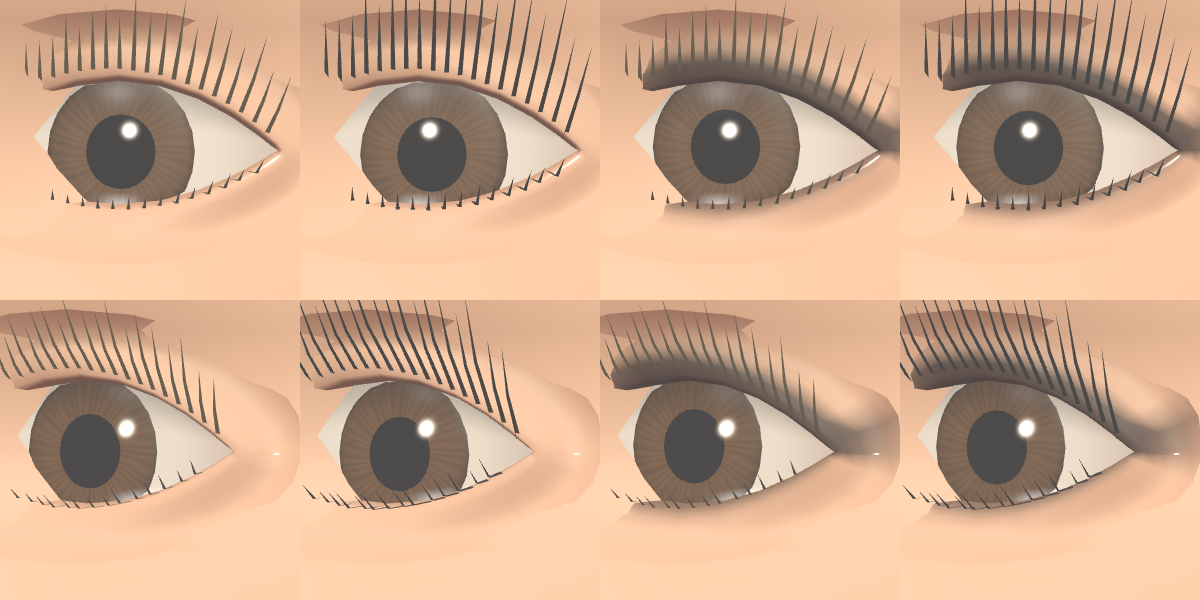
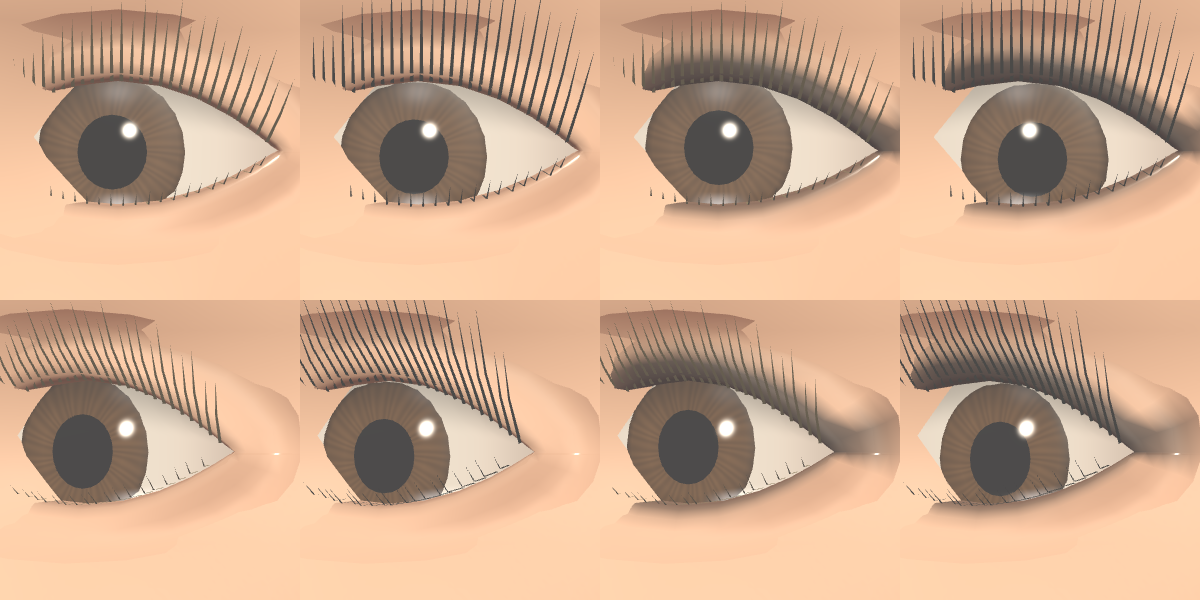
Lashes rooted on the lid line (denser, finer, 30 upper + 18 lower per eye, darker lash line, no skin shelf) and blush as two cheek apples instead of a band; tests for root distance, blush place and the packed-tag round trip. Refs #2170

diff --git a/src/config.js b/src/config.js
@@ -7622,15 +7622,15 @@ export const AVATAR_LIDS = {
   lid: { cols: 24, outer: [0.0175, 0.0105, 0.0085], rows: [0, 0.07, 0.25, 0.45, 0.6, 0.78, 1], inset: 0.0003, tuck: 0.0004,
     thick: [0.0011, 0.0008], corner: 0.35, round: 0.0004, fall: [2, 2], normal: [0, 0, 0, 0.1, 0.25, 0.4, 0.7, 1] },
   crease: { at: 0.6, width: 0.13, depth: 0.0007, shade: 0.84 },
-  shade: { upper: [0.74, 0.5], lower: [0.8, 0.8] },
+  shade: { upper: [0.74, 0.38], lower: [0.8, 0.62], line: 0.45 }, // (#2170: a darker lash line under the lashes' roots)
   blink: { close: 0.35, fold: 0.0032, foldLower: 0.0025, push: 0.002 },
-  // #2170: the lashes are separate curved hairs now (src/avatarlids.js `lashes`): `count` along the span (inner, outer: fractions of the opening's half
+  // #2170: the lashes are separate curved hairs now (src/avatarlids.js `lashes`): `root` m the roots sit inside the margin's edge (on the lid line, no skin between them), `count` along the span (inner, outer: fractions of the opening's half
   // width, x towards the temple), `length` m at the middle of the opening (x 0.4 ... 1 with its height, x `outer` [inner end, temple end]), `jitter` the
   // hairs' length variation, `angle` [root, curl] degrees from straight forward towards up (lower lashes: down), `width` m at the root (the
   // mid keeps `mid` x of it, the tip a point), `splay` m sideways per m of length at the temple end, `flip` how far a shut lid turns them over,
   // `down` how much a shut lid folds the lower ones up, `px` when they are drawn (old / new lash line). All *guess* by eye on the mirror preview.
-  lash: { count: 22, length: 0.0075, outer: [0.7, 1.3], jitter: 0.16, angle: [28, 52], width: 0.0004, mid: 0.7, splay: 0.35, span: [0.85, 0.95], shade: 0.3, flip: 1.7, down: 0.9, px: [[0.35, 0.7], [0.8, 1.6]],
-    lower: { count: 14, length: 0.0045, outer: [0.6, 1.2], angle: [-38, 30], span: [0.45, 0.85], shade: 0.4 } },
+  lash: { count: 30, length: 0.0075, outer: [0.7, 1.3], jitter: 0.16, angle: [28, 52], width: 0.0003, root: 0.0002, mid: 0.7, splay: 0.35, span: [0.85, 0.95], shade: 0.3, flip: 1.7, down: 0.9, px: [[0.35, 0.7], [0.8, 1.6]],
+    lower: { count: 18, length: 0.0042, outer: [0.6, 1.2], angle: [-38, 30], width: 0.0002, span: [0.45, 0.88], shade: 0.4 } },
 };
 // #2170 makeup: lip colour, eye makeup and blush as customizer choices (the look's `lipstick`, `eyeMakeup`, `blush`, each 0 = none = today's look). The three
 // are one code (lip + lips x (eye + eyes x blush), 0 ... 59) in the legs tag `p`'s tens (the legs in the units, 0 ... 4): a missing tag = no makeup; an older client
@@ -7639,12 +7639,12 @@ export const AVATAR_LIDS = {
 //  - `eyes`: 1 mascara (the lashes `lash` x longer and `dark` of the way to black, shader only), 2 eyeliner (the lid margin's vertex colours to `colour` x
 //    skin: full inside `upper` [full, none] m above the upper opening edge, `lowerK` x of it under the lower, a wing past the outer corner of `wing` m rising
 //    `rise` per m, fading in from `inner` of the opening's half width), 3 both.
-//  - `blush`: the cheeks' soft area (the skinArea format, head bone's frame) x `strength` (shader only: the skin's colour x `mul` plus `colour` x `tint`).
+//  - `blush`: the cheeks' two oval apples (head bone's frame: centre `at` x, y under the outer eyes, Gaussian radii `r`, in front of `z`; nothing across the nose or at the mouth corners) x `strength` (shader only: the skin's colour x `mul` plus `colour` x `tint`).
 export const AVATAR_MAKEUP = { tag: 'p', pack: 10,
   lips: { names: ['Ingen', 'Rosa', 'Röd', 'Vinröd', 'Nude'], colours: [0, 0xc4506c, 0xa3152a, 0x62183a, 0xb07a6c], mix: 0.85 },
   eyes: { names: ['Inget', 'Mascara', 'Eyeliner', 'Mascara & eyeliner'], lash: 1.4, dark: 0.92,
     liner: { colour: 0.08, upper: [0.0014, 0.0034], lowerK: 0.65, lower: [0.0004, 0.0016], wing: 0.0075, rise: 0.35, inner: 0.35 } },
-  blush: { names: ['Inget', 'Lätt', 'Tydlig'], strength: [0, 0.4, 0.8], area: [0.05, 0.068, 0.055, 0.034, 1, 1.2], colour: 0xd0506c, mul: [1.2, 0.68, 0.76], tint: 0.16 } };
+  blush: { names: ['Inget', 'Lätt', 'Tydlig'], strength: [0, 0.6, 1], area: { at: [0.052, 0.07], r: [0.021, 0.017], z: 0.05 }, colour: 0xd0506c, mul: [1.2, 0.68, 0.76], tint: 0.16 } };
 const mkPick = (v, n) => (Number.isInteger(v) && v > 0 && v < n ? v : 0);
 /** The look's makeup choices, each an integer in range (0 = none, also for any missing or unknown value). */
 export function makeupOf(look) {

diff --git a/src/avatarlids.js b/src/avatarlids.js
@@ -84,7 +84,7 @@ export function lidSurface(skin) {
       const crease = fold * Math.exp(-(((s - C.at) / C.width) ** 2));
       if (j > 0) z = Math.max(z - C.depth * crease, skin(x, y) + lift * 0.5);
       position.push(x, y, z);
-      shade.push(j === 0 ? sh[1] : 1 - (1 - C.shade) * crease);
+      shade.push(j === 0 ? sh[1] : j === 1 && L.shade.line ? sh[1] + (1 - sh[1]) * L.shade.line : 1 - (1 - C.shade) * crease); // (#2170: the lash line's dark reaches the second row)
     });
   }
   for (let i = 0; i < n; i++) for (let j = 0; j < rows.length; j++) {
@@ -106,8 +106,8 @@ export function lidSurface(skin) {
 
 /** A lash root's [y, z] at x on the upper or lower margin (the shader collapses a lash onto it). */
 export const lashBase = (x, upper = true) => (upper
-  ? [edgeY(x, true) + 0.00005, scleraZ(x) + lidThick(x, true) - 0.00008]
-  : [edgeY(x, false) - 0.00005, scleraZ(x) + lidThick(x, false) - 0.00008]);
+  ? [edgeY(x, true) - L.lash.root, scleraZ(x) + lidThick(x, true) - 0.00008]
+  : [edgeY(x, false) + L.lash.root, scleraZ(x) + lidThick(x, false) - 0.00008]);
 
 /** The hairs of one lash row (#2170): `count` hairs along the span, each a flat blade (its width along x) in the plane of its curved
  * path: the root's two points in the margin's edge, a mid ring, a pointed tip. Returns [{x, len, p: [root, mid, tip] as [x, y, z]}].
@@ -135,7 +135,7 @@ export const upperLashes = (side) => lashes(side, true);
 /** One lash row of one eye as a mesh (region `brow`, the brows' colour darkened by the part's shade): per hair a double-sided blade
  * (two roots, two mid points, a tip; 6 triangles), vertices not shared between its sides so each takes its own normal. */
 export function lashes(side, upper = true) {
-  const A = L.lash, w = A.width / 2, position = [], index = [];
+  const A = L.lash, w = (upper ? A.width : A.lower.width) / 2, position = [], index = [];
   for (const h of lashHairs(side, upper)) {
     const k = position.length / 3, wm = w * A.mid;
     for (let copy = 0; copy < 2; copy++) { // front side, then back side (opposite winding)
@@ -159,7 +159,7 @@ export function lidBlink(warp) {
             float yU = ${f(K.upper)} * le, yL = -${f(K.lower)} * le, yC = -${f(B.close * K.lower)} * le, lb = uBlink;
             if (abs(region - 9.0) < 0.5) { // the lashes: drawn only while long enough on screen; they fold down as the lid shuts
               bool lw = lq.y < 0.0; // (the lower row's hairs lie under the opening's middle line, the upper row's over it)
-              float yB = (lw ? -${f(K.lower)} * le - 0.00005 : yU + 0.00005), zB = ${f(zs)} * (${f(K.scleraBase)} + ${f(K.scleraRound)} * le) + (lw ? ${f(D.thick[1])} : ${f(D.thick[0])}) * (${f(D.corner)} + ${f(1 - D.corner)} * sqrt(le)) - 0.00008;
+              float yB = (lw ? -${f(K.lower)} * le + ${f(A.root)} : yU - ${f(A.root)}), zB = ${f(zs)} * (${f(K.scleraBase)} + ${f(K.scleraRound)} * le) + (lw ? ${f(D.thick[1])} : ${f(D.thick[0])}) * (${f(D.corner)} + ${f(1 - D.corner)} * sqrt(le)) - 0.00008;
               float lDep = max(-(modelViewMatrix * vec4(faceAnchor, 1.0)).z, 0.01);
               float lPx = ${f(A.length)} * uEye.x * abs(projectionMatrix[1][1]) * max(uFly.x, 1.0) / (2.0 * lDep);
               float lKeep = uFly.y > 0.5 ? smoothstep(${f(aa[0])}, ${f(aa[1])}, lPx) : smoothstep(${f(na[0])}, ${f(na[1])}, lPx);

diff --git a/src/avatarmakeup.js b/src/avatarmakeup.js
@@ -52,10 +52,19 @@ export function applyMakeupLook(u, look) {
 }
 /** Declarations for both stages. */
 export const makeupDecl = () => 'uniform vec2 uMake; uniform vec4 uBlush; // #2170 (src/avatarmakeup.js)';
-/** Fragment: blush on the face's skin (inside skinShading's face branch, `q` the head-frame position and `skinArea` already made `blushA`) */
+/** The blush's weight (0 … 1) at head-frame point (x, y, z): two Gaussian apples under the outer eyes, mirrored in x, in front of the face plane `z`.
+ * The shader's `blushA` is this same formula. */
+export function blushWeight(x, y, z) {
+  const A = M.blush.area;
+  if (z < A.z) return 0;
+  return Math.exp(-(((Math.abs(x) - A.at[0]) / A.r[0]) ** 2) - ((y - A.at[1]) / A.r[1]) ** 2);
+}
+/** Fragment: blush on the face's skin (inside skinShading's face branch, `q` the head-frame position; defines `blushA`) */
 export const blushGLSL = () => {
   const [a, b, c] = M.blush.mul;
-  return `if (uBlush.a > 0.0) { vec3 bl = diffuseColor.rgb * vec3(${a.toFixed(3)}, ${b.toFixed(3)}, ${c.toFixed(3)}) + uBlush.rgb * ${M.blush.tint.toFixed(3)}; diffuseColor.rgb = mix(diffuseColor.rgb, bl, clamp(blushA * uBlush.a, 0.0, 1.0)); }`;
+  const A = M.blush.area, f = (v) => v.toFixed(5);
+  return `float blushA = exp(-pow((abs(q.x) - ${f(A.at[0])}) / ${f(A.r[0])}, 2.0) - pow((q.y - ${f(A.at[1])}) / ${f(A.r[1])}, 2.0)) * step(${f(A.z)}, q.z);
+    if (uBlush.a > 0.0) { vec3 bl = diffuseColor.rgb * vec3(${a.toFixed(3)}, ${b.toFixed(3)}, ${c.toFixed(3)}) + uBlush.rgb * ${M.blush.tint.toFixed(3)}; diffuseColor.rgb = mix(diffuseColor.rgb, bl, clamp(blushA * uBlush.a, 0.0, 1.0)); }`;
 };
 /** Fragment: mascara darkens the lashes (region 9 of the eye part). */
 export const mascaraGLSL = (eyePart) => `if (uMake.y > 0.0 && floor(vSurface.x + 0.5) == 9.0 && abs(vSurface.y - ${eyePart.toFixed(1)}) < 0.5) diffuseColor.rgb = mix(diffuseColor.rgb, vec3(0.012), uMake.y);`;

diff --git a/src/avatar.js b/src/avatar.js
@@ -43,7 +43,7 @@ import { genderFaceGLSL } from './avatarfacegender.js'; // #2142
 import { hairlineAt, hairlineShell, hairlineAvoid, hairlineUniforms, applyHairlineLook, hairlineFDecl, hairlineColor } from './avatarhairline.js'; // #2050
 import { refineNose, noseHeight, noseVertexGLSL, noseFragmentGLSL, noseKey, NOSE_SKIN, noseUniforms, applyNoseLook, noseFormDecl, noseNormalGLSL } from './avatarnose.js'; // #2048: the nose (#2049: its shape variants)
 import { glossUniforms, applyGlossLook, glossVertex, glossFragment, glossKey } from './avatarhairgloss.js'; // #2052: gloss along the strands
-import { beardCutOf, AVATAR_MAKEUP as MAKEUP } from './config.js'; // #2166, #2170
+import { beardCutOf } from './config.js'; // #2166
 import { beardShell, moustacheShell, beardCore, skinProbe, beardUniforms, applyBeardLook, beardFDecl, beardColor, beardRoughness, beardKey } from './avatarbeard.js'; // #2051
 import { AVATAR_SHORT_HAIR as SHORT } from './config.js'; // #2055
 import { AVATAR_OUTERWEAR } from './config.js';
@@ -1130,7 +1130,6 @@ function skinShading() {
           float ear = ${SK.ear[2].toFixed(3)} * smoothstep(${SK.ear[0].toFixed(3)}, ${SK.ear[1].toFixed(3)}, abs(q.x)) * (1.0 - smoothstep(0.0, 0.03, q.z));
           tone *= mix(vec3(1.0), uSkBlush, clamp(cheek + noseTip + lipRim + ear * 0.5, 0.0, 1.0));
           tone *= mix(vec3(1.0), ${v3(SK.socket)}, clamp(socket, 0.0, 1.0));
-          ${skinArea('blushA', MAKEUP.blush.area)}
           ${blushGLSL()} // #2170
           tone *= mix(vec3(1.0), ${v3(SK.underTint)}, clamp(under + ear * 0.4, 0.0, 1.0));
         } else if (skinRole == 4.0) tone = ${v3(SK.hand)};

diff --git a/docs/development/graphics.md b/docs/development/graphics.md
@@ -360,7 +360,7 @@ strand stripes no longer apply to beards; the #2040 rim light and beard/moustach
 `beardCore`). Expressions, talking and kiss move the beard with the skin as before. Checks: `node --test tools/avatarbeardtest.mjs` and
 `PLAYWRIGHT_MODULE=… tools/browsertest.sh node tools/avatarbeardtest.cjs SITE OUT` ([views and cost](../verification/2051/README.md)).
 Stubble and the cropped beard (#2166, `AVATAR_BEARD_CUT`, all *guess*): look field `beardCut` (1 stubble on a clean-shaven face, 2 a short beard; `beardCutOf` ignores a cut that does not fit `facial`). The customizer's facial-hair choices 4 (`Stubb`) and 5 (`Kort skägg`) go through `setBeardChoice` / `beardChoiceOf`. Look code: the `x` tag (necklace in the units) carries the cut in the tens (`x10`, `x20`); the nine digits keep `facial` (stubble as 0, short as 3), so older clients show none / the full beard, and a missing or unknown value is today's look. Stubble is shader only (`stubbleGLSL`, `stubbleZone` = beard + moustache area minus the lips' oval; darker skin, fine dots in the beard's colour, expected coverage at distance; no geometry, no new program). Short: a thinner shell variant (`beardShell(lip, skin, short)`, no flyaways), hairs `len` ×, the undercoat `base` ×. Checks: `node --test tools/avatarstubbletest.mjs`, `PLAYWRIGHT_MODULE=… tools/browsertest.sh node tools/avatarstubble2166browser.cjs SITE OUT` ([views](../verification/2166/browser.json)).
-Makeup and lashes (#2170, `AVATAR_MAKEUP` + `AVATAR_LIDS.lash`, all *guess*, `src/avatarmakeup.js`): the lips have their own finish (`SURFACE.finish.lips` 0.26, skin 0.55: wet). The lashes are separate curved hairs in two rows (`lashes(side, upper)` / `lashHairs` in `src/avatarlids.js`: 22 upper at about 7.5 mm, 14 lower at about 4.5 mm, longer toward the temple, a curl `angle` [root, tip], 6 triangles per hair, 432 per avatar instead of 112); the blink shader tells the lower row by its y sign and folds it up. Makeup is the look's `lipstick` (0-4), `eyeMakeup` (0 none, 1 mascara, 2 eyeliner, 3 both) and `blush` (0-2), one code 0-59 in the legs tag `p`'s tens (the legs in the units, so older clients read the default legs and a plain face; a missing tag is no makeup). No mesh, texture or draw call: lipstick is the lips' own vertex colour (`lipColour`), eyeliner the lid-margin vertices' colour in each eye's frame (`linerWeight`, so it follows the blinking lid), mascara and blush two uniforms (`uMake` lash length / darkness, `uBlush`) read in the lash vertex shader and the face's skin shading. Program key suffix `-makeup2170`. Customizer: three sections (`addMakeupSection`) and the 2D preview. Checks: `node --test tools/avatarmakeuptest.mjs tools/avatarlidstest.mjs`, `PLAYWRIGHT_MODULE=... tools/browsertest.sh node tools/avatarmakeup2170browser.cjs SITE docs/verification/2170` ([views](../verification/2170/browser.json)).
+Makeup and lashes (#2170, `AVATAR_MAKEUP` + `AVATAR_LIDS.lash`, all *guess*, `src/avatarmakeup.js`): the lips have their own finish (`SURFACE.finish.lips` 0.26, skin 0.55: wet). The lashes are separate curved hairs in two rows (`lashes(side, upper)` / `lashHairs` in `src/avatarlids.js`: 30 upper at about 7.5 mm, 18 lower at about 4.2 mm, rooted `root` 0.2 mm inside the margin on a darker lash line, longer toward the temple, a curl `angle` [root, tip], 6 triangles per hair, 576 per avatar instead of 112); the blink shader tells the lower row by its y sign and folds it up. Makeup is the look's `lipstick` (0-4), `eyeMakeup` (0 none, 1 mascara, 2 eyeliner, 3 both) and `blush` (0-2), one code 0-59 in the legs tag `p`'s tens (the legs in the units, so older clients read the default legs and a plain face; a missing tag is no makeup). No mesh, texture or draw call: lipstick is the lips' own vertex colour (`lipColour`), eyeliner the lid-margin vertices' colour in each eye's frame (`linerWeight`, so it follows the blinking lid), mascara and blush two uniforms (`uMake` lash length / darkness, `uBlush`; the blush is two Gaussian cheek apples, `blushWeight`) read in the lash vertex shader and the face's skin shading. Program key suffix `-makeup2170`. Customizer: three sections (`addMakeupSection`) and the 2D preview. Checks: `node --test tools/avatarmakeuptest.mjs tools/avatarlidstest.mjs`, `PLAYWRIGHT_MODULE=... tools/browsertest.sh node tools/avatarmakeup2170browser.cjs SITE docs/verification/2170` ([views](../verification/2170/browser.json)).
 
 The full beard's sideburn (#2061, `src/avatarsideburn.js`, tunables `AVATAR_SIDEBURN`, all *guess*) runs up into the soft hairline
 instead of stopping short of it: the visible line (`hairlineAt`, round the hair centre) is mapped into the beard's angles at a typical
